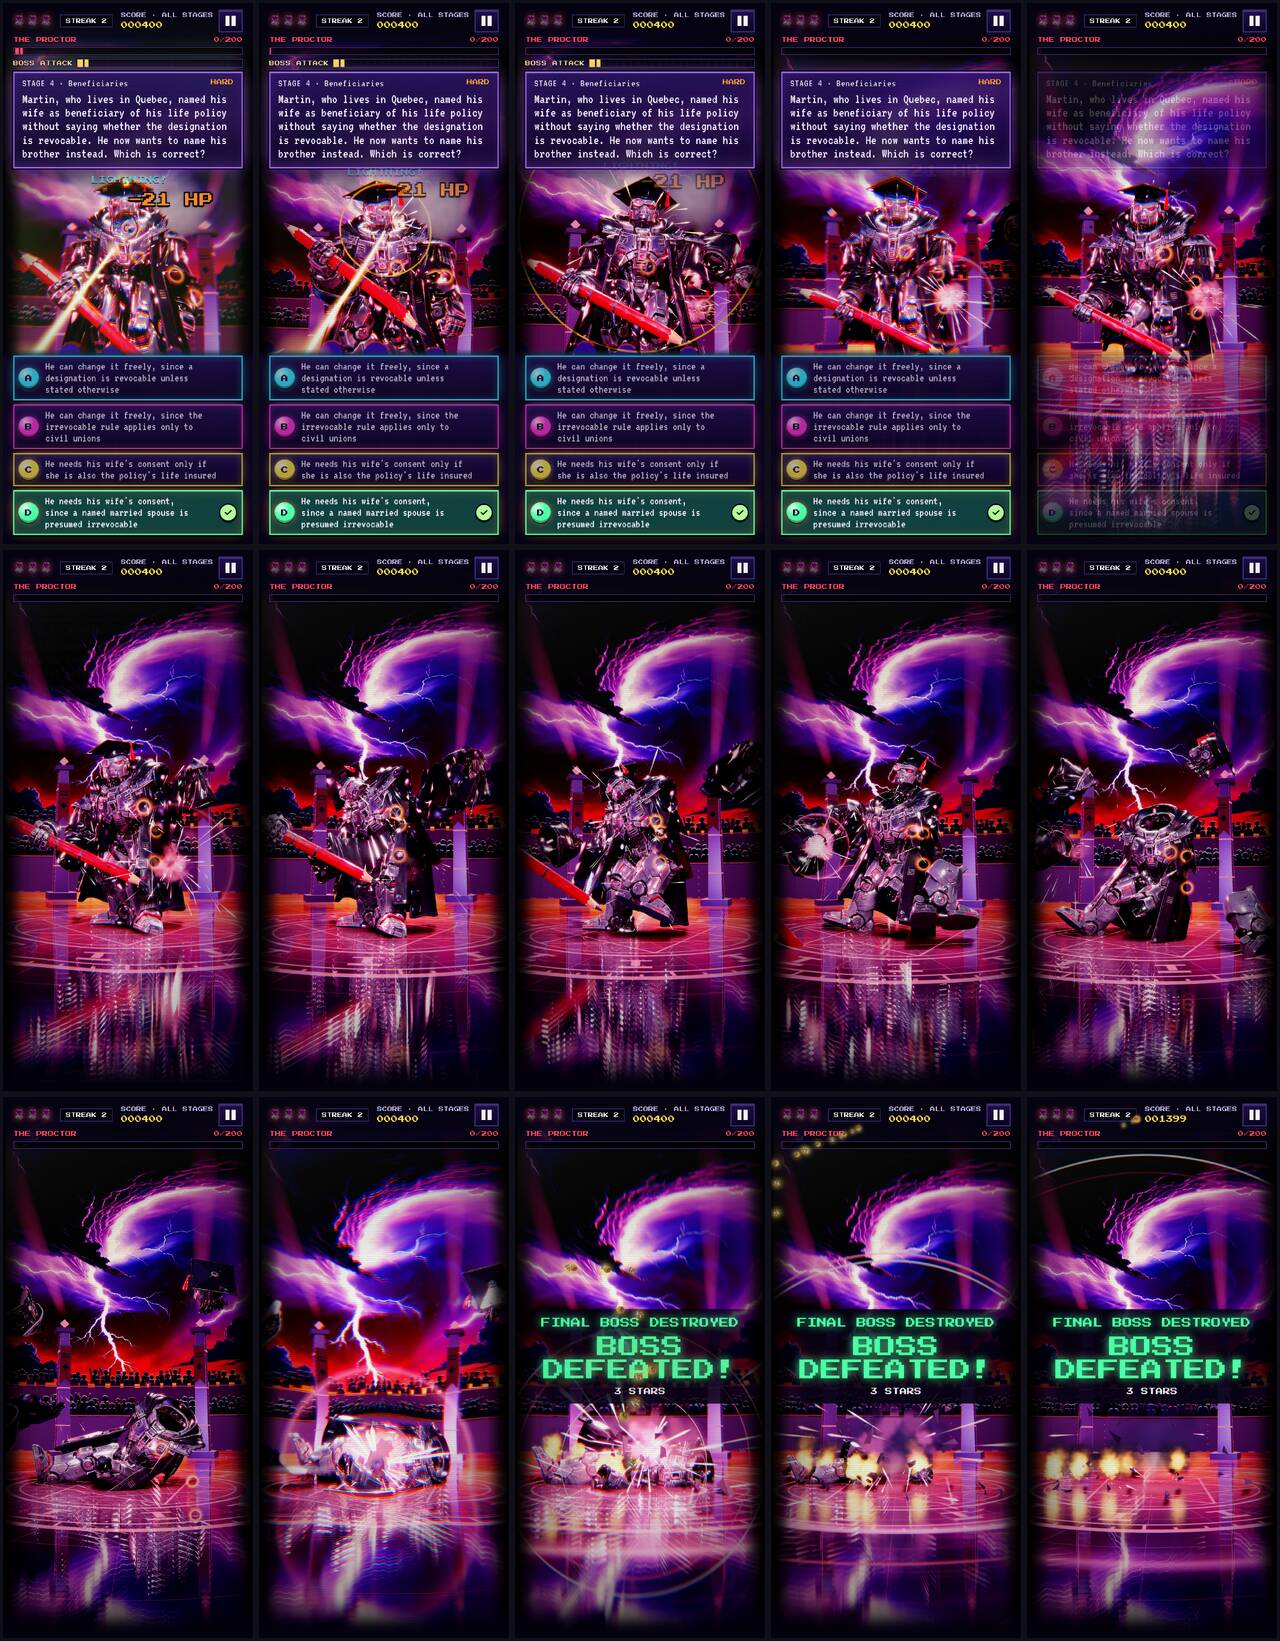
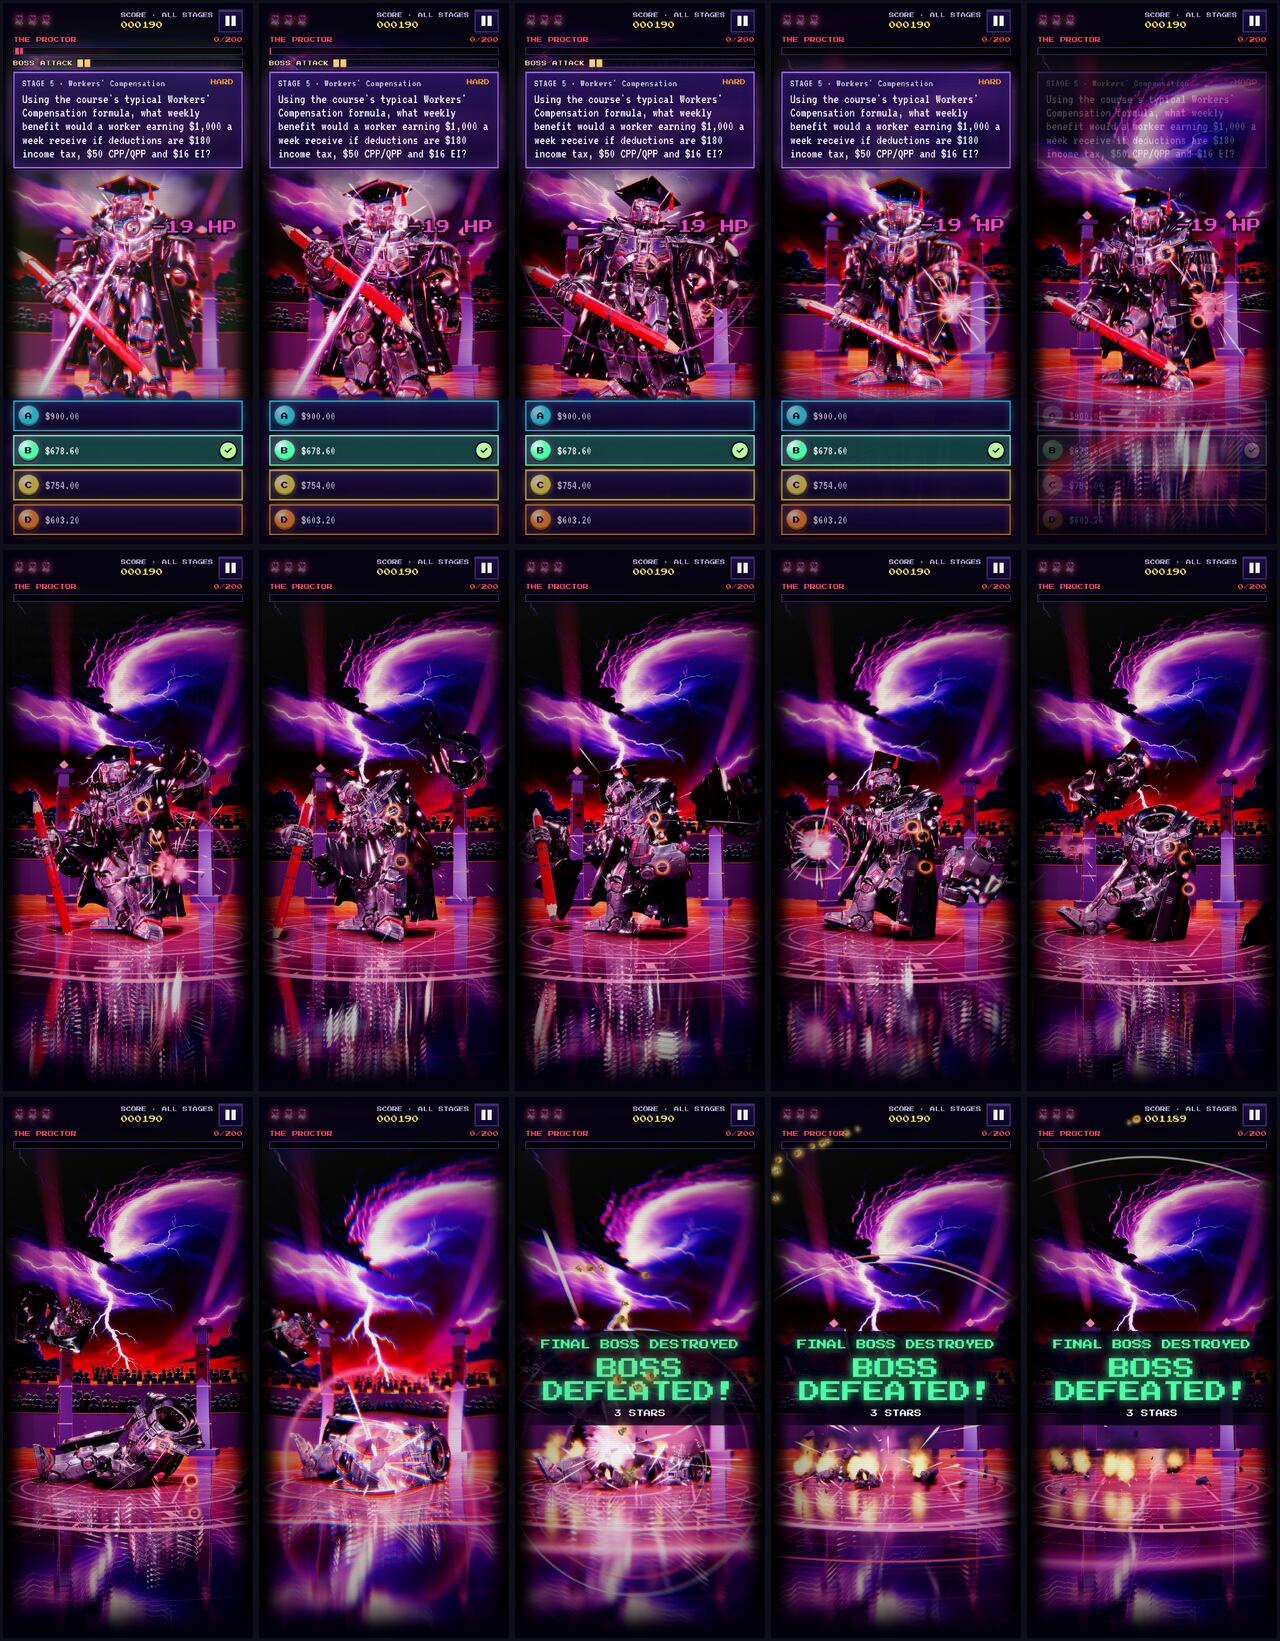
Boss Rush: the damage figures get a lane of their own (Phase 6, ruling 1)
The '-N HP' figure stood over the boss's head and rose across its caption;
the shared call-outs (LIGHTNING!, QUICK DRAW!, STREAK LOST) rose into the
question. Now the figure stands beside the point the lance lands on, away
from the lance, under room for a two-line caption and above the answers; the
call-out stands one row under it, outlined. They hold, then lift a little as
they fade, on the show clock. Where a very short band leaves no room, the
caption waits until the figure has gone. The rule's own floater is moved the
frame it is made; nothing in the rules changes. Regression boss IDENTICAL
from disk and served.

Claude-Session: https://claude.ai/code/session_01SXN4PWw2h7NprrScNwTTGU

diff --git a/arcade/src/js/22f-bossstage.js b/arcade/src/js/22f-bossstage.js
@@ -27,6 +27,9 @@ const BOSS_ATK = {
   SMOKE: 0x2c2244, WRECK: 0x241c38, // smoke and wreckage stay in the palette
   RAGE: new THREE.Color(1, 0.1, 0.16), // the rims of a raging boss
 };
+// the figures' lane (see BossStage.figure): how far one lifts as it goes, and how long it stands (show seconds; the
+// rule's own floater is taken away a second after it was made, on the page clock)
+const FIG_LIFT = 14, FIG_LIFE = 0.9;
 class BossStage {
   constructor(game, actor) {
     const g = (this.g = game), s = g.scene, row = (this.row = g.row);
@@ -46,6 +49,7 @@ class BossStage {
     this.tele = null; this.strike = null; this.shot = null; this.kindN = 0; this.dying = null; this.phase = "wait";
     this.hum = false; this.alarm = false; this.rageOn = false; this.flick = 1; this.windK = 0;
     this.embers = []; // glowing edges round a hole burnt in it and round its stumps: { sp, at, size, t }
+    this.figs = []; // the figures standing in their lane (see figure): { el, t, y, h }
     // what it gathers as it winds up: a glow where the attack will leave it
     this.orb = glowSprite(neon(this.hex, 2.2), 0.1, 1);
     this.orb.visible = false; this.orb.renderOrder = 7;
@@ -103,10 +107,57 @@ class BossStage {
   screen(p) { const v = this._n.copy(p).project(this.g.camera); return { x: (v.x * 0.5 + 0.5) * GFX.w, y: (0.5 - v.y * 0.5) * GFX.h }; }
   pan(p) { return clamp(p.x / 6, -1, 1) * 0.6; }
   outline(el) { if (el && el.classList.contains("floater")) el.style.textShadow = "-2px -2px 0 #000, 2px -2px 0 #000, -2px 2px 0 #000, 2px 2px 0 #000, 0 3px 0 #000, 0 0 6px #000"; }
-  // where a figure of damage stands: over its head, inside the picture
+  // where a figure of damage is made: over its head, inside the picture (bossHit moves it into its lane the same frame)
   floatAt() {
     const g = this.g, p = this.screen(this._v.set(0, this.S * 1.03, 0)), top = g.band ? g.band.top + 34 : 60;
     return { x: clamp(p.x, 60, GFX.w - 60), y: Math.max(top, p.y - 10) };
+  }
+  // ---- the figures in the picture: a blow's damage, and the call-out of a quick answer or of a streak lost ----------
+  // They have a lane of their own (Phase 6: they used to rise across its caption and into the question): beside the
+  // point the blow lands on, on the side away from the lance (it comes from the answers' letters, on the left), under
+  // the caption plate (room is kept for two lines of it) and above the answers. Row 0 is the damage, beside the point;
+  // row 1 is the call-out, under it. Each holds still at full strength, then lifts a little as it fades, on the show
+  // clock. Where the picture is too short for them and the caption both, the caption waits until they have gone.
+  figure(el, at, row) {
+    const g = this.g, b = g.band;
+    if (!el || !b || el.dataset.lane) return;
+    el.dataset.lane = "1";
+    el.style.animation = "none";
+    el.style.whiteSpace = "nowrap";
+    if (!el.classList.contains("big")) el.style.fontSize = "13px";
+    this.outline(el);
+    const w = el.offsetWidth, h = el.offsetHeight, big = clamp(GFX.w * 0.056, 18, 24) + 2;
+    const cap = Math.max(2.4 * clamp(GFX.w * 0.037, 13, 17) + 12, this.bubble && this.bubble.el.isConnected ? this.bubble.h : 0); // (the caption plate: two lines of it, or the one up if taller)
+    const lo = b.top + 3 + cap + 6 + FIG_LIFT + row * (big + 8), hi = b.top + b.h - h - 6;
+    let x = at.x + 30;
+    if (x + w > GFX.w - 8 && at.x - 30 - w >= 8) x = at.x - 30 - w; // (no room on its right: on its left)
+    x = clamp(x, 8, Math.max(8, GFX.w - w - 8));
+    const y = Math.round(Math.max(Math.min(row ? at.y + big / 2 + 16 : at.y - h / 2, hi), Math.min(lo, hi)));
+    el.style.left = Math.round(x) + "px";
+    el.style.top = y + "px";
+    this.figs.push({ el, t: 0, y, h });
+  }
+  // the call-outs the shared hype made as the rule marked the answer (the floaters made then, not yet in a lane)
+  callouts() {
+    const at = this.screen(this.a.at("chest", this._u));
+    UI.root.querySelectorAll(".floater:not(.big):not([data-lane])").forEach((el) => { if (/LIGHTNING|QUICK DRAW|STREAK LOST/.test(el.textContent)) this.figure(el, at, 1); });
+  }
+  // (each frame: hold, then lift and fade)
+  figures(d) {
+    for (let i = this.figs.length - 1; i >= 0; i--) {
+      const f = this.figs[i];
+      f.t += d;
+      const k = f.t / FIG_LIFE, u = clamp((k - 0.72) / 0.28, 0, 1);
+      if (!f.el.isConnected || k >= 1) { f.el.style.opacity = "0"; this.figs.splice(i, 1); continue; }
+      f.el.style.transform = "translateY(" + (-(Math.min(k, 0.72) / 0.72) * 3 - u * (FIG_LIFT - 3)).toFixed(1) + "px)";
+      f.el.style.opacity = (1 - u * u).toFixed(2);
+    }
+  }
+  // whether the caption would meet a figure where it stands
+  capMeets(b) {
+    if (!this.figs.length) return false;
+    const top = b.offsetTop, bot = top + Math.max(b.offsetHeight, this.bubble && this.bubble.el === b ? this.bubble.h : 0) + 2;
+    return this.figs.some((f) => f.el.isConnected && f.y - FIG_LIFT < bot && f.y + f.h > top);
   }
 
   // The boss speaks (the rule's own speech bubble, at the head of the picture): the lens tips up for as long as it is
@@ -138,7 +189,7 @@ class BossStage {
     if (!b) return;
     this.capStyle(b);
     if (g.band) b.style.top = Math.round(g.band.top + 3) + "px";
-    b.style.visibility = this.phase === "death" || this.phase === "won" || g.el.querySelector(".sheet") ? "hidden" : "";
+    b.style.visibility = this.phase === "death" || this.phase === "won" || g.el.querySelector(".sheet") || this.capMeets(b) ? "hidden" : "";
   }
   // (head: how far down the band the foot of its head stands, with no room made)
   bubbleRoom(head) {
@@ -262,6 +313,7 @@ class BossStage {
   // right: whether the answer is the right one (look only: the rule has checked it itself)
   fire(slot, right) {
     this.shot = { slot, right, col: SLOT_COLORS[slot] || COLORS.cyan, n: 0, time: 0 };
+    this.callouts();
   }
   volley(sh) {
     const kit = this.kit, a = this.a, S = this.S, n = sh.n, from = this.muzzle(sh.slot, new THREE.Vector3());
@@ -290,6 +342,8 @@ class BossStage {
     const tearing = this.tears.some((t) => !t.done && o.now <= t.at), big = dmg >= 20 || o.dead || o.enraged || tearing;
     const p = a.at(big ? "head" : "chest", new THREE.Vector3()), from = this.muzzle(o.slot, new THREE.Vector3());
     p.z += (big ? 0.07 : 0.12) * S; p.y -= big ? 0.02 * S : 0;
+    const made = UI.root.querySelectorAll(".floater.big:not([data-lane])");
+    this.figure(made[made.length - 1], this.screen(p), 0); // (the rule's figure, made this frame)
     this.foil();
     if (this.shot) this.shot.n = 9; // (its bolts are spent)
     // the lance: from the answer's side to where it lands, held for a few frames
@@ -391,6 +445,7 @@ class BossStage {
   attack(slow) {
     const g = this.g, t = this.tele || { kind: this.row.atk[0], clip: BOSS_ATK.CLIP[this.row.atk[0]], mark: [], acc: 0 }, C = BOSS_CLIP[t.clip];
     this.tele = t;
+    this.callouts(); // (a timeout's "STREAK LOST": a wrong answer's went into the lane as it was fired)
     this.debts.push({ t: 0 });
     this.marks(t, 0.6);
     if (t.line) { t.line.stop(); t.line = null; }
@@ -730,6 +785,7 @@ class BossStage {
   update(dt) {
     const g = this.g, d = VFX.dt, a = this.a, kit = this.kit, S = this.S, k = S / 7.4, quiet = REDUCED_MOTION || GFX.calm;
     g.show.update(d);
+    this.figures(d);
     const f = g.state === "ask" ? clamp(g.charge / g.T, 0, 1) : 0, rage = g.enraged && g.hp > 0 ? 1 : 0;
     // ---- the telegraph, the strike, the player's burst
     if (g.state === "ask" && this.tele && !this.strike) this.telegraph(f, d);

diff --git a/arcade/docs/combat-pass/final/STATUS.md b/arcade/docs/combat-pass/final/STATUS.md
@@ -4,7 +4,7 @@ Brief: the lead's rulings on the final review (r1). One commit per fix; regressi
 
 | # | Ruling | State |
 |---|---|---|
-| 1 | Boss Rush: damage popups in their own lane, caption held where they would meet; "LIGHTNING!" not clipped | in progress |
+| 1 | Boss Rush: damage popups in their own lane, caption held where they would meet; "LIGHTNING!" not clipped | done |
 | 2 | Risk Blaster low health: beating red frame round the band, smoke and flame on the visible hull; Nest Egg Run's last-life frame stronger | to do |
 | 3 | Final Exam examiner: a hard-edged chest core over the smear, cool key and magenta rim (hitStop calls untouched) | to do |
 | 4 | Risk Blaster's ambient ships read as ships (lights as points, less tint and bloom, further into the haze) | to do |
@@ -23,3 +23,10 @@ Brief: the lead's rulings on the final review (r1). One commit per fix; regressi
   The bus kept its length (8.4); its lamps sit on it. `cohesion-traffic.js`: the paced car stands nearer (taller now,
   it hid under badge A, as the game means it to). Re-captured cohesion 04, 05, 06. Racer skies and near miss: with
   the racer fixes below. Regression racer IDENTICAL from disk and served.
+- **Ruling 1 (Boss Rush figures).** `22f-bossstage.js`: `figure()` puts the rule's own "-N HP" floater (in bossHit,
+  the frame it is made) beside the point the lance lands on, away from the lance, under room for a two-line caption
+  and above the answers; the shared hype's call-outs (LIGHTNING!, QUICK DRAW!, STREAK LOST) go one row under it, at
+  13 px, outlined (`callouts()`, from fire() and attack()). They hold still, then lift 14 px as they fade, on the show
+  clock (0.9 s). `capMeets()`: the caption is hidden while a figure stands where it would meet it (only on a very short
+  band). Checked by numbers and a still: caption 271-292, figure 334-356, call-out 384-397, answers from 532.
+  Re-captured boss 04-right-hit, 12-proctor-death. Regression boss IDENTICAL both ways.
